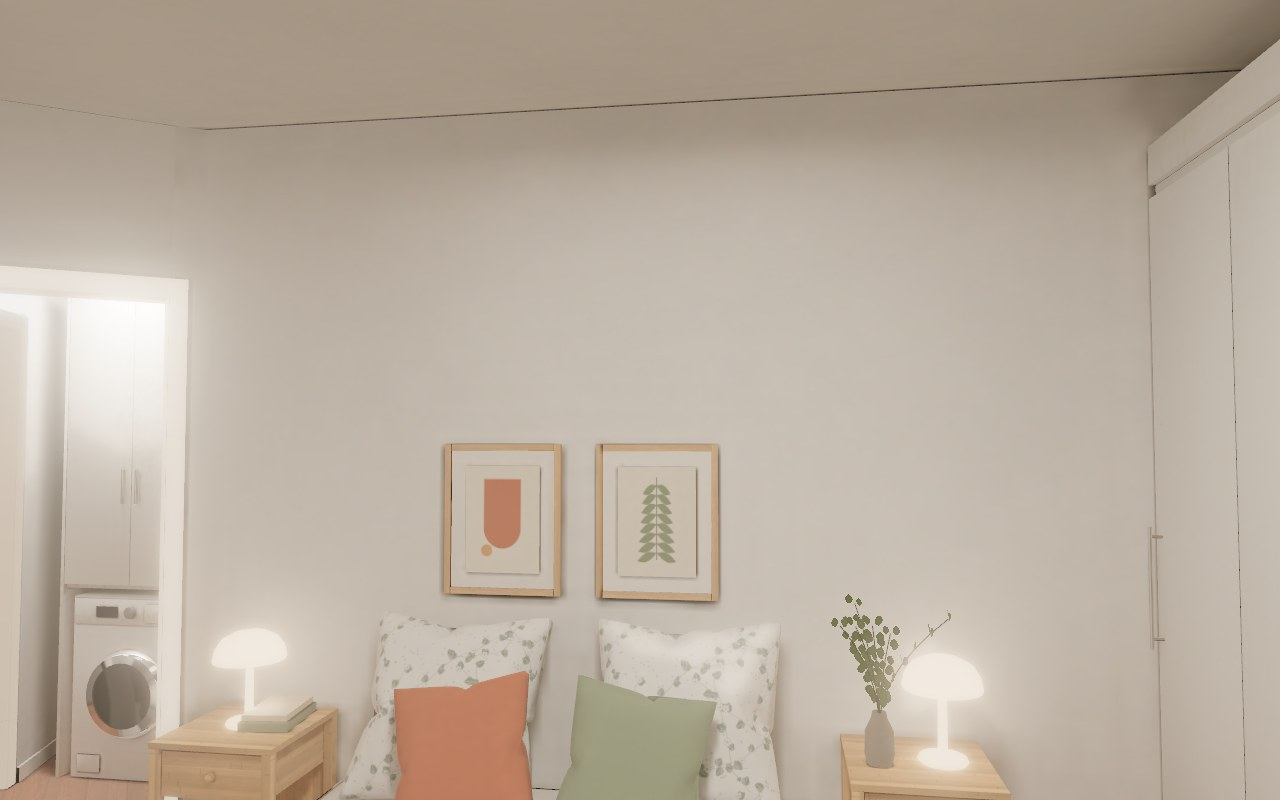
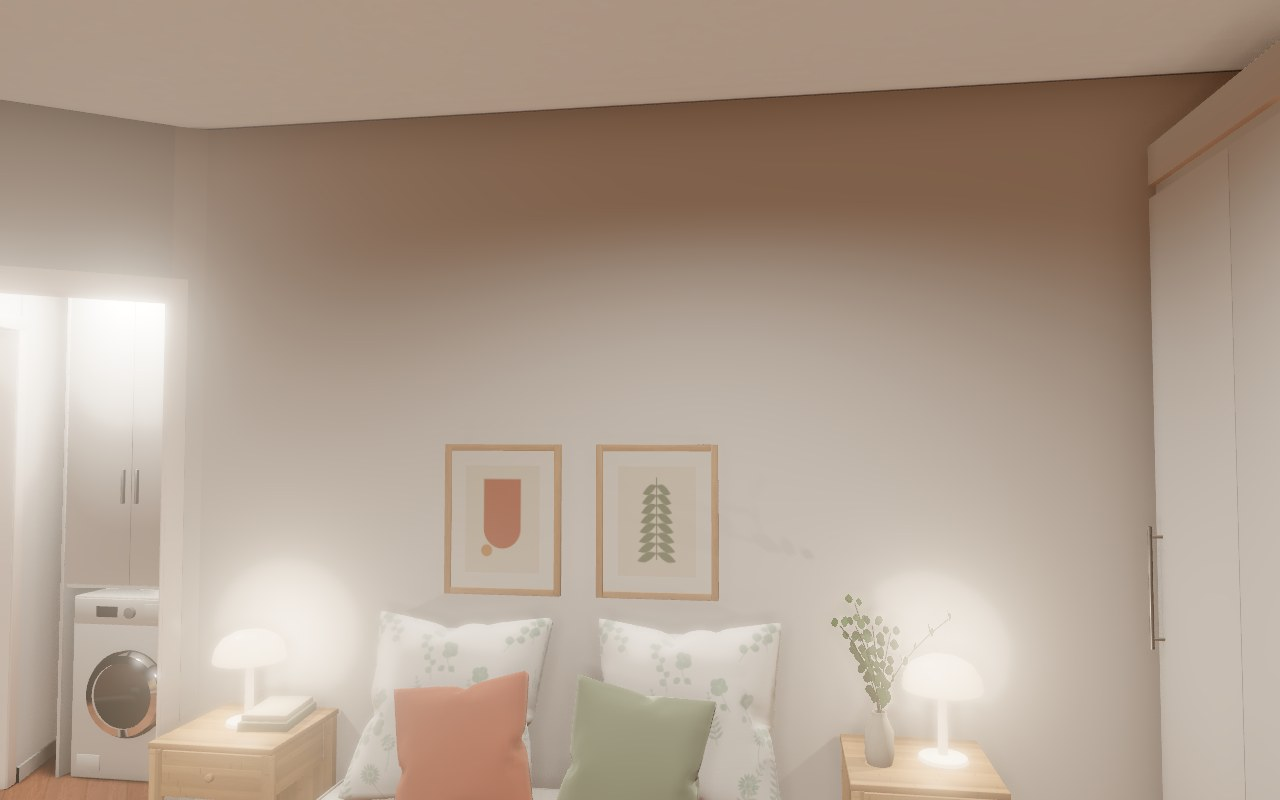
Verre clair (paroi de douche, vitrages), captures de référence refaites (éclairage mixte)
Claude-Session: https://claude.ai/code/session_01JeXZXTsmujnmrYULKFm8L2

diff --git a/web/src/main.js b/web/src/main.js
@@ -37,7 +37,7 @@ renderer.setPixelRatio(Math.min(devicePixelRatio, touch ? 1.6 : 2));
 renderer.toneMapping = THREE.AgXToneMapping;
 renderer.outputColorSpace = THREE.SRGBColorSpace;
 renderer.shadowMap.enabled = true;
-renderer.shadowMap.type = THREE.PCFSoftShadowMap;
+renderer.shadowMap.type = THREE.PCFShadowMap;
 
 const camera = new THREE.PerspectiveCamera(50, 1, 0.05, 900);
 const apt = new Apartment(renderer);
